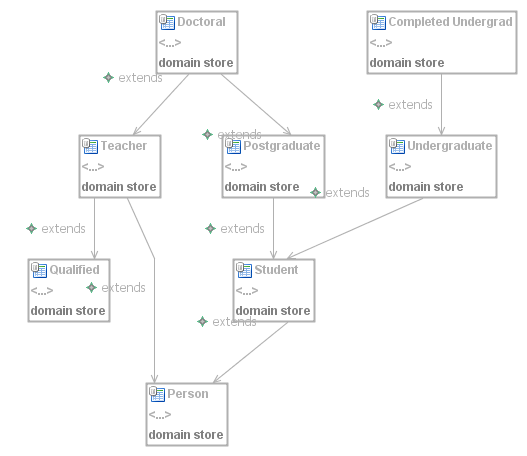
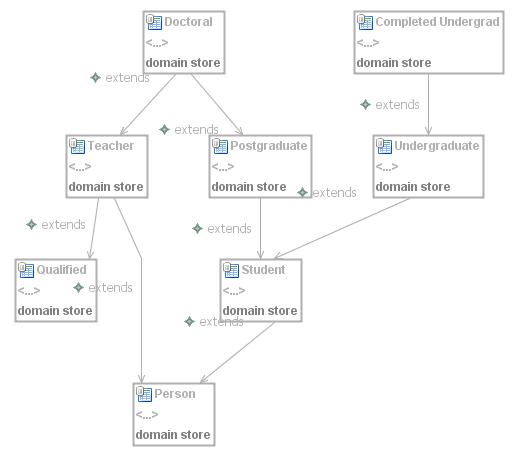
regenerating example diagrams (fixes ConstraintEdge bug)

diff --git a/examples/DomainInheritanceEditing/DomainInheritanceEditing-17.html b/examples/DomainInheritanceEditing/DomainInheritanceEditing-17.html
@@ -13,12 +13,12 @@ img { border: 1px solid #ccc; }
 <h2><a href="DomainInheritanceEditing.html">InternetApplication</a> > <a href="DomainInheritanceEditing-17.html">DomainStore: 'domain store'</a></h2>
 <img src="DomainInheritanceEditing-17.png" usemap="#generated_map">
 <map name="generated_map">
-<area shape="rect" coords="145,382,228,446" href="DomainInheritanceEditing-10.html" alt="DomainObject: 'Person'" title="DomainObject: 'Person'" />
-<area shape="rect" coords="232,258,315,322" href="DomainInheritanceEditing-19.html" alt="DomainObject: 'Student'" title="DomainObject: 'Student'" />
-<area shape="rect" coords="78,134,161,198" href="DomainInheritanceEditing-6.html" alt="DomainObject: 'Teacher'" title="DomainObject: 'Teacher'" />
-<area shape="rect" coords="27,258,110,322" href="DomainInheritanceEditing-21.html" alt="DomainObject: 'Qualified'" title="DomainObject: 'Qualified'" />
-<area shape="rect" coords="221,134,325,198" href="DomainInheritanceEditing-22.html" alt="DomainObject: 'Postgraduate'" title="DomainObject: 'Postgraduate'" />
-<area shape="rect" coords="385,134,497,198" href="DomainInheritanceEditing-23.html" alt="DomainObject: 'Undergraduate'" title="DomainObject: 'Undergraduate'" />
-<area shape="rect" coords="155,10,238,74" href="DomainInheritanceEditing-24.html" alt="DomainObject: 'Doctoral'" title="DomainObject: 'Doctoral'" />
-<area shape="rect" coords="366,10,517,74" alt="DomainObject: 'Completed Undergrad'" title="DomainObject: 'Completed Undergrad'" />
+<area shape="rect" coords="132,382,215,446" href="DomainInheritanceEditing-2.html" alt="DomainObject: 'Person'" title="DomainObject: 'Person'" />
+<area shape="rect" coords="219,258,302,322" href="DomainInheritanceEditing-19.html" alt="DomainObject: 'Student'" title="DomainObject: 'Student'" />
+<area shape="rect" coords="65,134,148,198" href="DomainInheritanceEditing-20.html" alt="DomainObject: 'Teacher'" title="DomainObject: 'Teacher'" />
+<area shape="rect" coords="14,258,97,322" href="DomainInheritanceEditing-21.html" alt="DomainObject: 'Qualified'" title="DomainObject: 'Qualified'" />
+<area shape="rect" coords="208,134,312,198" href="DomainInheritanceEditing-22.html" alt="DomainObject: 'Postgraduate'" title="DomainObject: 'Postgraduate'" />
+<area shape="rect" coords="372,134,484,198" href="DomainInheritanceEditing-23.html" alt="DomainObject: 'Undergraduate'" title="DomainObject: 'Undergraduate'" />
+<area shape="rect" coords="142,10,225,74" href="DomainInheritanceEditing-8.html" alt="DomainObject: 'Doctoral'" title="DomainObject: 'Doctoral'" />
+<area shape="rect" coords="353,10,504,74" alt="DomainObject: 'Completed Undergrad'" title="DomainObject: 'Completed Undergrad'" />
 </map></body></html>

diff --git a/examples/CanCastCondition/CanCastCondition-6.html b/examples/CanCastCondition/CanCastCondition-6.html
@@ -13,11 +13,11 @@ img { border: 1px solid #ccc; }
 <h2>InternetApplication > Frame: 'Home' > <a href="CanCastCondition-6.html">CompositeCondition: 'can cast?'</a></h2>
 <img src="CanCastCondition-6.png" usemap="#generated_map">
 <map name="generated_map">
-<area shape="rect" coords="68,149,117,189" alt="StartNode" title="StartNode" />
-<area shape="rect" coords="10,369,62,409" alt="FinishNode" title="FinishNode" />
-<area shape="rect" coords="122,369,177,410" alt="CancelNode" title="CancelNode" />
-<area shape="rect" coords="177,149,224,189" alt="CastNode" title="CastNode" />
-<area shape="rect" coords="54,249,130,289" alt="DecisionCondition: 'can cast?'" title="DecisionCondition: 'can cast?'" />
-<area shape="rect" coords="190,249,257,309" alt="TemporaryVariable: 'target'" title="TemporaryVariable: 'target'" />
-<area shape="rect" coords="162,10,238,89" alt="Property: 'fieldValue'" title="Property: 'fieldValue'" />
+<area shape="rect" coords="81,149,130,189" alt="StartNode" title="StartNode" />
+<area shape="rect" coords="23,369,75,409" alt="FinishNode" title="FinishNode" />
+<area shape="rect" coords="135,369,190,410" alt="CancelNode" title="CancelNode" />
+<area shape="rect" coords="190,149,237,189" alt="CastNode" title="CastNode" />
+<area shape="rect" coords="67,249,143,289" alt="DecisionCondition: 'can cast?'" title="DecisionCondition: 'can cast?'" />
+<area shape="rect" coords="203,249,270,309" alt="TemporaryVariable: 'target'" title="TemporaryVariable: 'target'" />
+<area shape="rect" coords="175,10,251,89" alt="Property: 'fieldValue'" title="Property: 'fieldValue'" />
 </map></body></html>

diff --git a/examples/SetValueStatic/SetValueStatic-4.html b/examples/SetValueStatic/SetValueStatic-4.html
@@ -13,9 +13,9 @@ img { border: 1px solid #ccc; }
 <h2><a href="SetValueStatic.html">InternetApplication</a> > <a href="SetValueStatic-1.html">Frame: 'Home'</a> > <a href="SetValueStatic-3.html">Button: 'execute'</a> > <a href="SetValueStatic-4.html">CompositeOperation: 'do operation'</a></h2>
 <img src="SetValueStatic-4.png" usemap="#generated_map">
 <map name="generated_map">
-<area shape="rect" coords="33,132,166,173" alt="PrimitiveOperation: 'setPropertyToValue'" title="PrimitiveOperation: 'setPropertyToValue'" />
-<area shape="rect" coords="10,10,59,50" alt="StartNode" title="StartNode" />
-<area shape="rect" coords="73,233,125,273" alt="FinishNode" title="FinishNode" />
-<area shape="rect" coords="119,10,209,72" alt="StaticValue: 'static value'" title="StaticValue: 'static value'" />
-<area shape="rect" coords="185,233,261,312" alt="Property: 'fieldValue'" title="Property: 'fieldValue'" />
+<area shape="rect" coords="47,132,180,173" alt="PrimitiveOperation: 'setPropertyToValue'" title="PrimitiveOperation: 'setPropertyToValue'" />
+<area shape="rect" coords="24,10,73,50" alt="StartNode" title="StartNode" />
+<area shape="rect" coords="87,233,139,273" alt="FinishNode" title="FinishNode" />
+<area shape="rect" coords="133,10,223,72" alt="StaticValue: 'static value'" title="StaticValue: 'static value'" />
+<area shape="rect" coords="199,233,275,312" alt="Property: 'fieldValue'" title="Property: 'fieldValue'" />
 </map></body></html>

diff --git a/examples/GateDisclaimer/GateDisclaimer-1.html b/examples/GateDisclaimer/GateDisclaimer-1.html
@@ -14,7 +14,7 @@ img { border: 1px solid #ccc; }
 <img src="GateDisclaimer-1.png" usemap="#generated_map">
 <map name="generated_map">
 <area shape="rect" coords="57,10,145,70" alt="EventTrigger" title="EventTrigger" />
-<area shape="rect" coords="10,130,192,171" href="GateDisclaimer-7.html" alt="CompositeOperation: 'set disclaimer viewed to true'" title="CompositeOperation: 'set disclaimer viewed to true'" />
+<area shape="rect" coords="10,130,192,171" href="GateDisclaimer-2.html" alt="CompositeOperation: 'set disclaimer viewed to true'" title="CompositeOperation: 'set disclaimer viewed to true'" />
 <area shape="rect" coords="266,10,354,51" alt="Button: 'continue'" title="Button: 'continue'" />
 <area shape="rect" coords="252,130,369,171" alt="EntryGate: 'Display Disclaimer'" title="EntryGate: 'Display Disclaimer'" />
 </map></body></html>

diff --git a/examples/GateDisclaimer/GateDisclaimer-6.html b/examples/GateDisclaimer/GateDisclaimer-6.html
@@ -14,7 +14,7 @@ img { border: 1px solid #ccc; }
 <img src="GateDisclaimer-6.png" usemap="#generated_map">
 <map name="generated_map">
 <area shape="rect" coords="57,10,145,70" alt="EventTrigger" title="EventTrigger" />
-<area shape="rect" coords="10,130,192,171" href="GateDisclaimer-7.html" alt="CompositeOperation: 'set disclaimer viewed to true'" title="CompositeOperation: 'set disclaimer viewed to true'" />
+<area shape="rect" coords="10,130,192,171" href="GateDisclaimer-2.html" alt="CompositeOperation: 'set disclaimer viewed to true'" title="CompositeOperation: 'set disclaimer viewed to true'" />
 <area shape="rect" coords="266,10,354,51" alt="Button: 'continue'" title="Button: 'continue'" />
 <area shape="rect" coords="252,130,369,171" alt="EntryGate: 'Display Disclaimer'" title="EntryGate: 'Display Disclaimer'" />
 </map></body></html>

diff --git a/examples/NavigateConditionWire/NavigateConditionWire-1.html b/examples/NavigateConditionWire/NavigateConditionWire-1.html
@@ -15,6 +15,6 @@ img { border: 1px solid #ccc; }
 <map name="generated_map">
 <area shape="rect" coords="52,13,115,54" href="NavigateConditionWire-2.html" alt="Button: 'Button'" title="Button: 'Button'" />
 <area shape="rect" coords="175,13,227,73" href="NavigateConditionWire-4.html" alt="InputTextField: 'value'" title="InputTextField: 'value'" />
-<area shape="rect" coords="287,13,381,54" href="NavigateConditionWire-3.html" alt="CompositeCondition: 'is value = 1?'" title="CompositeCondition: 'is value = 1?'" />
+<area shape="rect" coords="287,13,381,54" href="NavigateConditionWire-6.html" alt="CompositeCondition: 'is value = 1?'" title="CompositeCondition: 'is value = 1?'" />
 <area shape="rect" coords="40,133,126,174" alt="Frame: 'Destination'" title="Frame: 'Destination'" />
 </map></body></html>

diff --git a/examples/DomainInheritanceEditing/DomainInheritanceEditing-16.html b/examples/DomainInheritanceEditing/DomainInheritanceEditing-16.html
@@ -10,7 +10,7 @@ h2 a:hover { color: #333; }
 img { border: 1px solid #ccc; }
 </style>
 </head><body>
-<h2><a href="DomainInheritanceEditing.html">InternetApplication</a> > <a href="DomainInheritanceEditing-17.html">DomainStore: 'domain store'</a> > <a href="DomainInheritanceEditing-24.html">DomainObject: 'Doctoral'</a></h2>
+<h2><a href="DomainInheritanceEditing.html">InternetApplication</a> > <a href="DomainInheritanceEditing-17.html">DomainStore: 'domain store'</a> > <a href="DomainInheritanceEditing-8.html">DomainObject: 'Doctoral'</a></h2>
 <img src="DomainInheritanceEditing-16.png" usemap="#generated_map">
 <map name="generated_map">
 <area shape="rect" coords="10,10,90,70" alt="DomainAttribute: 'thesis title'" title="DomainAttribute: 'thesis title'" />

diff --git a/examples/DomainInheritanceEditing/DomainInheritanceEditing-24.html b/examples/DomainInheritanceEditing/DomainInheritanceEditing-24.html
@@ -10,7 +10,7 @@ h2 a:hover { color: #333; }
 img { border: 1px solid #ccc; }
 </style>
 </head><body>
-<h2><a href="DomainInheritanceEditing.html">InternetApplication</a> > <a href="DomainInheritanceEditing-17.html">DomainStore: 'domain store'</a> > <a href="DomainInheritanceEditing-24.html">DomainObject: 'Doctoral'</a></h2>
+<h2><a href="DomainInheritanceEditing.html">InternetApplication</a> > <a href="DomainInheritanceEditing-17.html">DomainStore: 'domain store'</a> > <a href="DomainInheritanceEditing-8.html">DomainObject: 'Doctoral'</a></h2>
 <img src="DomainInheritanceEditing-24.png" usemap="#generated_map">
 <map name="generated_map">
 <area shape="rect" coords="10,10,90,70" alt="DomainAttribute: 'thesis title'" title="DomainAttribute: 'thesis title'" />

diff --git a/examples/DomainInheritanceEditing/DomainInheritanceEditing-8.html b/examples/DomainInheritanceEditing/DomainInheritanceEditing-8.html
@@ -10,7 +10,7 @@ h2 a:hover { color: #333; }
 img { border: 1px solid #ccc; }
 </style>
 </head><body>
-<h2><a href="DomainInheritanceEditing.html">InternetApplication</a> > <a href="DomainInheritanceEditing-17.html">DomainStore: 'domain store'</a> > <a href="DomainInheritanceEditing-24.html">DomainObject: 'Doctoral'</a></h2>
+<h2><a href="DomainInheritanceEditing.html">InternetApplication</a> > <a href="DomainInheritanceEditing-17.html">DomainStore: 'domain store'</a> > <a href="DomainInheritanceEditing-8.html">DomainObject: 'Doctoral'</a></h2>
 <img src="DomainInheritanceEditing-8.png" usemap="#generated_map">
 <map name="generated_map">
 <area shape="rect" coords="10,10,90,70" alt="DomainAttribute: 'thesis title'" title="DomainAttribute: 'thesis title'" />

diff --git a/examples/GateDisclaimer/GateDisclaimer-2.html b/examples/GateDisclaimer/GateDisclaimer-2.html
@@ -10,7 +10,7 @@ h2 a:hover { color: #333; }
 img { border: 1px solid #ccc; }
 </style>
 </head><body>
-<h2><a href="GateDisclaimer.html">InternetApplication</a> > <a href="GateDisclaimer-6.html">Frame: 'Disclaimer Page'</a> > <a href="GateDisclaimer-7.html">CompositeOperation: 'set disclaimer viewed to true'</a></h2>
+<h2><a href="GateDisclaimer.html">InternetApplication</a> > <a href="GateDisclaimer-6.html">Frame: 'Disclaimer Page'</a> > <a href="GateDisclaimer-2.html">CompositeOperation: 'set disclaimer viewed to true'</a></h2>
 <img src="GateDisclaimer-2.png" usemap="#generated_map">
 <map name="generated_map">
 <area shape="rect" coords="37,132,200,173" alt="PrimitiveOperation: 'setPropertyToValue'" title="PrimitiveOperation: 'setPropertyToValue'" />

diff --git a/examples/GateDisclaimer/GateDisclaimer-7.html b/examples/GateDisclaimer/GateDisclaimer-7.html
@@ -10,7 +10,7 @@ h2 a:hover { color: #333; }
 img { border: 1px solid #ccc; }
 </style>
 </head><body>
-<h2><a href="GateDisclaimer.html">InternetApplication</a> > <a href="GateDisclaimer-6.html">Frame: 'Disclaimer Page'</a> > <a href="GateDisclaimer-7.html">CompositeOperation: 'set disclaimer viewed to true'</a></h2>
+<h2><a href="GateDisclaimer.html">InternetApplication</a> > <a href="GateDisclaimer-6.html">Frame: 'Disclaimer Page'</a> > <a href="GateDisclaimer-2.html">CompositeOperation: 'set disclaimer viewed to true'</a></h2>
 <img src="GateDisclaimer-7.png" usemap="#generated_map">
 <map name="generated_map">
 <area shape="rect" coords="37,132,200,173" alt="PrimitiveOperation: 'setPropertyToValue'" title="PrimitiveOperation: 'setPropertyToValue'" />

diff --git a/examples/DomainInheritanceEditing/DomainInheritanceEditing-20.html b/examples/DomainInheritanceEditing/DomainInheritanceEditing-20.html
@@ -10,7 +10,7 @@ h2 a:hover { color: #333; }
 img { border: 1px solid #ccc; }
 </style>
 </head><body>
-<h2><a href="DomainInheritanceEditing.html">InternetApplication</a> > <a href="DomainInheritanceEditing-17.html">DomainStore: 'domain store'</a> > <a href="DomainInheritanceEditing-6.html">DomainObject: 'Teacher'</a></h2>
+<h2><a href="DomainInheritanceEditing.html">InternetApplication</a> > <a href="DomainInheritanceEditing-17.html">DomainStore: 'domain store'</a> > <a href="DomainInheritanceEditing-20.html">DomainObject: 'Teacher'</a></h2>
 <img src="DomainInheritanceEditing-20.png" usemap="#generated_map">
 <map name="generated_map">
 <area shape="rect" coords="10,10,61,70" alt="DomainAttribute: 'title'" title="DomainAttribute: 'title'" />
